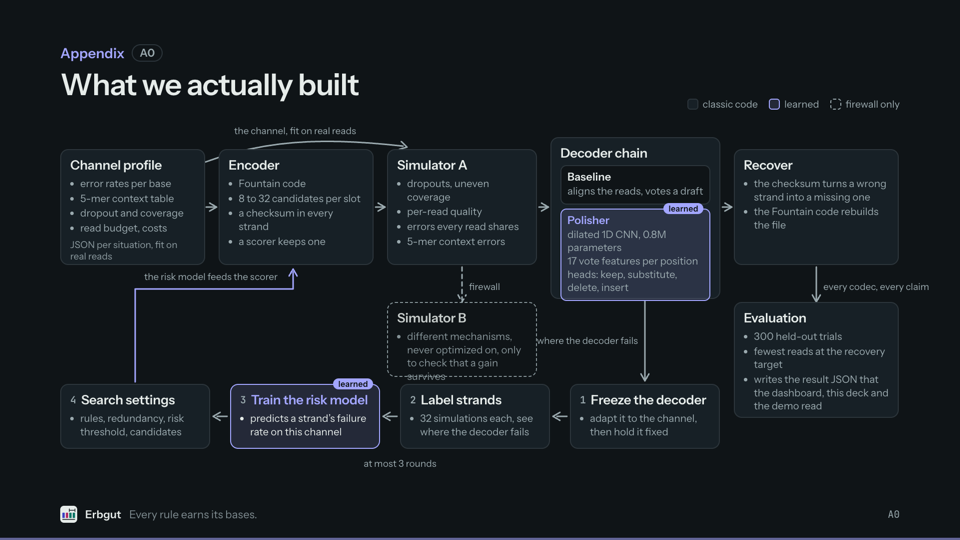
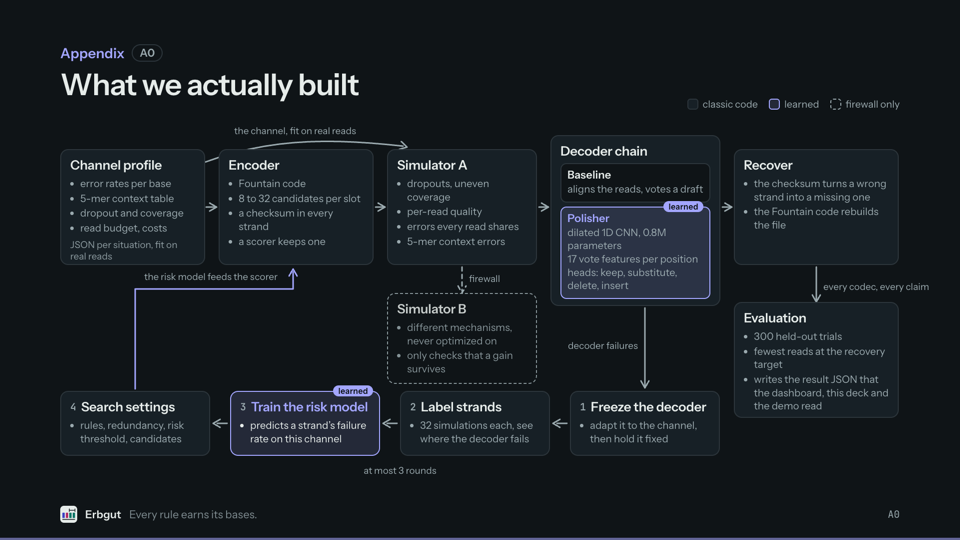
Deck: clear the Simulator B box on A0 from the connectors and labels
The dashed box sat directly under the firewall connector and its last
bullet ran past the border, and the "where the decoder fails" label
crossed the box edge. Simulator B moved up and grew, the firewall
connector shortened, the loop band moved down, the decoder chain box
grew to hold the polisher, and the label is now the shorter "decoder
failures" in the free space beside the wire. The return arrow leaves the
top edge of Search settings and its label stays clear of every box.

diff --git a/marketing/deck/slides.js b/marketing/deck/slides.js
@@ -329,23 +329,23 @@
       list: ['Fountain code', '8 to 32 candidates per slot', 'a checksum in every strand', 'a scorer keeps one'] },
     { f: 1, x: 654, y: 40, w: 300, h: 232, title: 'Simulator A',
       list: ['dropouts, uneven coverage', 'per-read quality', 'errors every read shares', '5-mer context errors'] },
-    { f: 1, x: 981, y: 16, w: 340, h: 324, title: 'Decoder chain', subs: [
+    { f: 1, x: 981, y: 12, w: 340, h: 342, title: 'Decoder chain', subs: [
       { f: 1, title: 'Baseline', text: 'aligns the reads, votes a draft' },
       { f: 2, learned: true, title: 'Polisher', text: 'dilated 1D CNN, 0.8M parameters<br>17 vote features per position<br>heads: keep, substitute, delete, insert' },
     ] },
     { f: 1, x: 1348, y: 40, w: 330, h: 232, title: 'Recover',
       list: ['the checksum turns a wrong strand into a missing one', 'the Fountain code rebuilds the file'] },
-    { f: 4, x: 654, y: 346, w: 300, h: 150, firewall: true, title: 'Simulator B',
-      list: ['different mechanisms, never optimized on, only to check that a gain survives'] },
+    { f: 4, x: 654, y: 328, w: 300, h: 182, firewall: true, title: 'Simulator B',
+      list: ['different mechanisms, never optimized on', 'only checks that a gain survives'] },
     { f: 4, x: 1348, y: 346, w: 330, h: 232, title: 'Evaluation',
       list: ['300 held-out trials', 'fewest reads at the recovery target', 'writes the result JSON that the dashboard, this deck and the demo read'] },
-    { f: 3, x: 1020, y: 510, w: 300, h: 130, title: 'Freeze the decoder', n: '1',
+    { f: 3, x: 1020, y: 524, w: 300, h: 130, title: 'Freeze the decoder', n: '1',
       list: ['adapt it to the channel, then hold it fixed'] },
-    { f: 3, x: 680, y: 510, w: 300, h: 130, title: 'Label strands', n: '2',
+    { f: 3, x: 680, y: 524, w: 300, h: 130, title: 'Label strands', n: '2',
       list: ['32 simulations each, see where the decoder fails'] },
-    { f: 3, x: 340, y: 510, w: 300, h: 130, learned: true, title: 'Train the risk model', n: '3',
+    { f: 3, x: 340, y: 524, w: 300, h: 130, learned: true, title: 'Train the risk model', n: '3',
       list: ['predicts a strand\u2019s failure rate on this channel'] },
-    { f: 3, x: 0, y: 510, w: 300, h: 130, title: 'Search settings', n: '4',
+    { f: 3, x: 0, y: 524, w: 300, h: 130, title: 'Search settings', n: '4',
       list: ['rules, redundancy, risk threshold, candidates'] },
   ];
 
@@ -390,17 +390,17 @@
       wire(1, `M958 156 H973 ${arrow(958, 156, 977, 156)}`) +
       wire(1, `M1325 156 H1340 ${arrow(1325, 156, 1344, 156)}`) +
       // the loop
-      wire(3, `M1170 344 V500 ${arrow(1170, 476, 1170, 504)}`) +
-      label(3, 1156, 430, 'where the decoder fails', 'end') +
-      wire(3, `M1014 575 H994 ${arrow(1014, 575, 986, 575)}`) +
-      wire(3, `M674 575 H654 ${arrow(674, 575, 646, 575)}`) +
-      wire(3, `M334 575 H314 ${arrow(334, 575, 306, 575)}`) +
-      wire(3, `M150 506 V320 H466 V286 ${arrow(466, 316, 466, 280)}`, 'learnedwire') +
+      wire(3, `M1170 358 V514 ${arrow(1170, 490, 1170, 518)}`) +
+      label(3, 1156, 440, 'decoder failures', 'end') +
+      wire(3, `M1014 589 H994 ${arrow(1014, 589, 986, 589)}`) +
+      wire(3, `M674 589 H654 ${arrow(674, 589, 646, 589)}`) +
+      wire(3, `M334 589 H314 ${arrow(334, 589, 306, 589)}`) +
+      wire(3, `M150 520 V320 H466 V286 ${arrow(466, 316, 466, 280)}`, 'learnedwire') +
       label(3, 168, 302, 'the risk model feeds the scorer') +
-      label(3, 680, 676, 'at most 3 rounds', 'middle') +
+      label(3, 680, 690, 'at most 3 rounds', 'middle') +
       // evaluation and the firewall
-      wire(4, `M804 276 V342 ${arrow(804, 318, 804, 346)}`, 'dash') +
-      label(4, 818, 322, 'firewall') +
+      wire(4, `M804 276 V324 ${arrow(804, 300, 804, 328)}`, 'dash') +
+      label(4, 818, 306, 'firewall') +
       wire(4, `M1513 276 V342 ${arrow(1513, 318, 1513, 346)}`) +
       label(4, 1527, 322, 'every codec, every claim');
 
